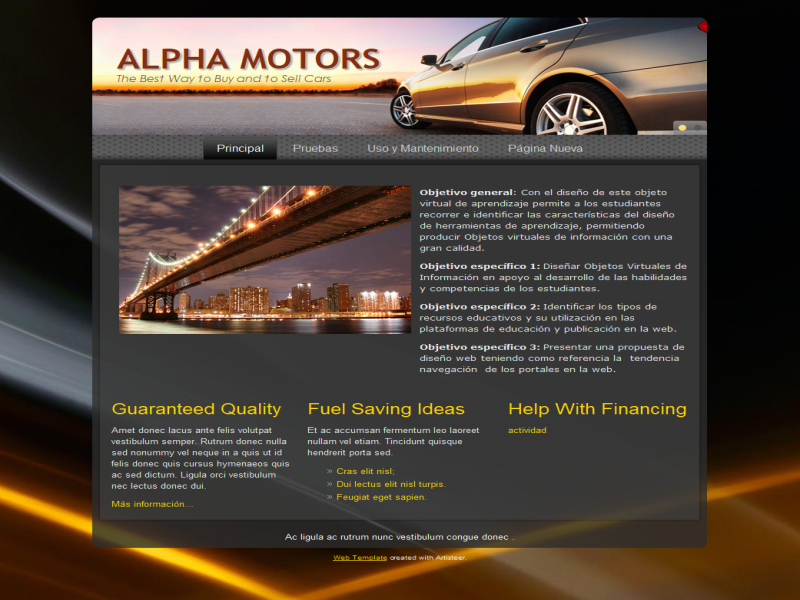
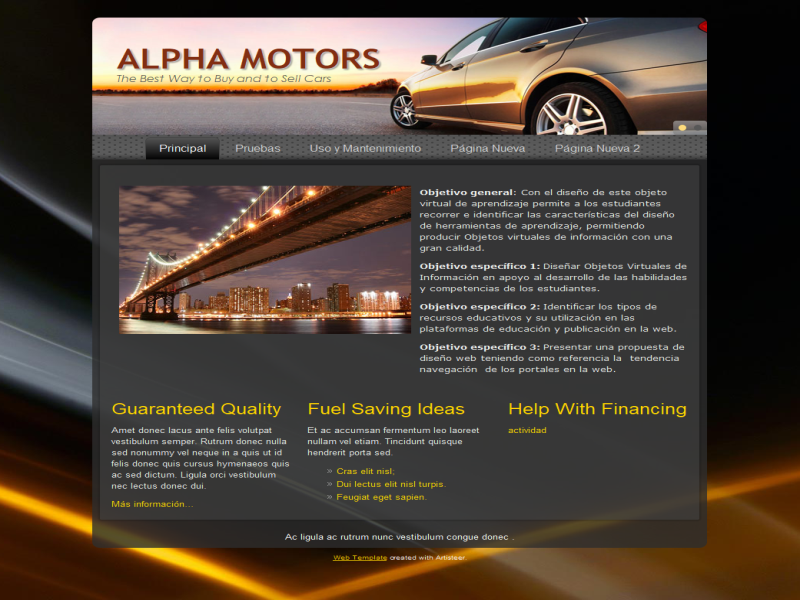
pagina nueva

Changed region(s): [[0.1562, 0.24, 0.8125, 0.27]]

diff --git a/pagina-nueva-2.html b/pagina-nueva-2.html
@@ -1,7 +1,7 @@
 <!DOCTYPE html>
 <html dir="ltr" lang="en-US"><head><!-- Created by Artisteer v4.0.0.58475 -->
     <meta charset="utf-8">
-    <title>Uso y Mantenimeinto</title>
+    <title>Página Nueva 2</title>
     <meta name="viewport" content="initial-scale = 1.0, maximum-scale = 1.0, user-scalable = no, width = device-width">
 
     <!--[if lt IE 9]><script src="http://html5shiv.googlecode.com/svn/trunk/html5.js"></script><![endif]-->
@@ -50,20 +50,17 @@
                     
 </header>
 <nav class="art-nav clearfix">
-    <ul class="art-hmenu"><li><a href="principal.html">Principal</a><ul><li><a href="principal/analisis.html">Análisis</a></li><li><a href="principal/planificacion.html">Planificación</a></li><li><a href="principal/car-reviews.html">Diseño</a></li><li><a href="principal/implementacion.html">Implementación</a></li><li><a href="principal/instalacion.html">Instalación</a></li></ul></li><li><a href="locations.html">Pruebas</a></li><li><a href="uso-y-mantenimiento.html" class="active">Uso y Mantenimiento</a></li><li><a href="pagina-nueva.html">Página Nueva</a></li><li><a href="pagina-nueva-2.html">Página Nueva 2</a></li></ul> 
+    <ul class="art-hmenu"><li><a href="principal.html">Principal</a><ul><li><a href="principal/analisis.html">Análisis</a></li><li><a href="principal/planificacion.html">Planificación</a></li><li><a href="principal/car-reviews.html">Diseño</a></li><li><a href="principal/implementacion.html">Implementación</a></li><li><a href="principal/instalacion.html">Instalación</a></li></ul></li><li><a href="locations.html">Pruebas</a></li><li><a href="uso-y-mantenimiento.html">Uso y Mantenimiento</a></li><li><a href="pagina-nueva.html">Página Nueva</a></li><li><a href="pagina-nueva-2.html" class="active">Página Nueva 2</a></li></ul> 
     </nav>
 <div class="art-layout-wrapper clearfix">
                 <div class="art-content-layout">
                     <div class="art-content-layout-row">
                         <div class="art-layout-cell art-content clearfix"><article class="art-post art-article">
                                 <div class="art-postmetadataheader">
-                                        <h2 class="art-postheader">Uso y Mantenimeinto</h2>
+                                        <h2 class="art-postheader">Página Nueva 2</h2>
                                     </div>
                                                 
-                <div class="art-postcontent art-postcontent-0 clearfix"><p class="MsoListParagraphCxSpFirst" style="margin-left: 54pt; text-align: justify;"><span style="font-family: Verdana, sans-serif; color: #FFFFFF;">Mantenimiento correctivo: Eliminar errores o defectos dentro de la vida útil del sistema.</span></p>
-<p class="MsoListParagraphCxSpMiddle" style="margin-left: 54pt; text-align: justify;"><span style="font-family: Verdana, sans-serif; color: #FFFFFF;">Mantenimiento adaptativo: adaptarlo nuevas funciones por nuevas versiones de sistemas operativos o aplicaciones.</span></p>
-<p class="MsoListParagraphCxSpMiddle" style="margin-left: 54pt; text-align: justify;"><span style="font-family: Verdana, sans-serif; color: #FFFFFF;">Mantenimiento perfectivo: implementarle nuevas funcionalidades las cuales generaran una nueva mejora del sistema.</span></p>
-<p class="MsoListParagraphCxSpMiddle" style="margin-left: 54pt; text-align: justify;"><span style="font-family: Verdana, sans-serif; color: #FFFFFF;">En esta etapa encontramos que se repiten todas las etapas anteriores.</span></p></div>
+                <div class="art-postcontent art-postcontent-0 clearfix"><p><br/></p></div>
 </article></div>
                     </div>
                 </div>

diff --git a/principal/analisis.html b/principal/analisis.html
@@ -54,7 +54,7 @@
                     
 </header>
 <nav class="art-nav clearfix">
-    <ul class="art-hmenu"><li><a href="../principal.html" class="active">Principal</a><ul class="active"><li><a href="../principal/analisis.html" class="active">Análisis</a></li><li><a href="../principal/planificacion.html">Planificación</a></li><li><a href="../principal/car-reviews.html">Diseño</a></li><li><a href="../principal/implementacion.html">Implementación</a></li><li><a href="../principal/instalacion.html">Instalación</a></li></ul></li><li><a href="../locations.html">Pruebas</a></li><li><a href="../uso-y-mantenimiento.html">Uso y Mantenimiento</a></li><li><a href="../pagina-nueva.html">Página Nueva</a></li></ul> 
+    <ul class="art-hmenu"><li><a href="../principal.html" class="active">Principal</a><ul class="active"><li><a href="../principal/analisis.html" class="active">Análisis</a></li><li><a href="../principal/planificacion.html">Planificación</a></li><li><a href="../principal/car-reviews.html">Diseño</a></li><li><a href="../principal/implementacion.html">Implementación</a></li><li><a href="../principal/instalacion.html">Instalación</a></li></ul></li><li><a href="../locations.html">Pruebas</a></li><li><a href="../uso-y-mantenimiento.html">Uso y Mantenimiento</a></li><li><a href="../pagina-nueva.html">Página Nueva</a></li><li><a href="../pagina-nueva-2.html">Página Nueva 2</a></li></ul> 
     </nav>
 <div class="art-layout-wrapper clearfix">
                 <div class="art-content-layout">

diff --git a/principal/car-reviews.html b/principal/car-reviews.html
@@ -50,7 +50,7 @@
                     
 </header>
 <nav class="art-nav clearfix">
-    <ul class="art-hmenu"><li><a href="../principal.html" class="active">Principal</a><ul class="active"><li><a href="../principal/analisis.html">Análisis</a></li><li><a href="../principal/planificacion.html">Planificación</a></li><li><a href="../principal/car-reviews.html" class="active">Diseño</a></li><li><a href="../principal/implementacion.html">Implementación</a></li><li><a href="../principal/instalacion.html">Instalación</a></li></ul></li><li><a href="../locations.html">Pruebas</a></li><li><a href="../uso-y-mantenimiento.html">Uso y Mantenimiento</a></li><li><a href="../pagina-nueva.html">Página Nueva</a></li></ul> 
+    <ul class="art-hmenu"><li><a href="../principal.html" class="active">Principal</a><ul class="active"><li><a href="../principal/analisis.html">Análisis</a></li><li><a href="../principal/planificacion.html">Planificación</a></li><li><a href="../principal/car-reviews.html" class="active">Diseño</a></li><li><a href="../principal/implementacion.html">Implementación</a></li><li><a href="../principal/instalacion.html">Instalación</a></li></ul></li><li><a href="../locations.html">Pruebas</a></li><li><a href="../uso-y-mantenimiento.html">Uso y Mantenimiento</a></li><li><a href="../pagina-nueva.html">Página Nueva</a></li><li><a href="../pagina-nueva-2.html">Página Nueva 2</a></li></ul> 
     </nav>
 <div class="art-layout-wrapper clearfix">
                 <div class="art-content-layout">

diff --git a/principal/implementacion.html b/principal/implementacion.html
@@ -54,7 +54,7 @@
                     
 </header>
 <nav class="art-nav clearfix">
-    <ul class="art-hmenu"><li><a href="../principal.html" class="active">Principal</a><ul class="active"><li><a href="../principal/analisis.html">Análisis</a></li><li><a href="../principal/planificacion.html">Planificación</a></li><li><a href="../principal/car-reviews.html">Diseño</a></li><li><a href="../principal/implementacion.html" class="active">Implementación</a></li><li><a href="../principal/instalacion.html">Instalación</a></li></ul></li><li><a href="../locations.html">Pruebas</a></li><li><a href="../uso-y-mantenimiento.html">Uso y Mantenimiento</a></li><li><a href="../pagina-nueva.html">Página Nueva</a></li></ul> 
+    <ul class="art-hmenu"><li><a href="../principal.html" class="active">Principal</a><ul class="active"><li><a href="../principal/analisis.html">Análisis</a></li><li><a href="../principal/planificacion.html">Planificación</a></li><li><a href="../principal/car-reviews.html">Diseño</a></li><li><a href="../principal/implementacion.html" class="active">Implementación</a></li><li><a href="../principal/instalacion.html">Instalación</a></li></ul></li><li><a href="../locations.html">Pruebas</a></li><li><a href="../uso-y-mantenimiento.html">Uso y Mantenimiento</a></li><li><a href="../pagina-nueva.html">Página Nueva</a></li><li><a href="../pagina-nueva-2.html">Página Nueva 2</a></li></ul> 
     </nav>
 <div class="art-layout-wrapper clearfix">
                 <div class="art-content-layout">

diff --git a/principal/instalacion.html b/principal/instalacion.html
@@ -54,7 +54,7 @@
                     
 </header>
 <nav class="art-nav clearfix">
-    <ul class="art-hmenu"><li><a href="../principal.html" class="active">Principal</a><ul class="active"><li><a href="../principal/analisis.html">Análisis</a></li><li><a href="../principal/planificacion.html">Planificación</a></li><li><a href="../principal/car-reviews.html">Diseño</a></li><li><a href="../principal/implementacion.html">Implementación</a></li><li><a href="../principal/instalacion.html" class="active">Instalación</a></li></ul></li><li><a href="../locations.html">Pruebas</a></li><li><a href="../uso-y-mantenimiento.html">Uso y Mantenimiento</a></li><li><a href="../pagina-nueva.html">Página Nueva</a></li></ul> 
+    <ul class="art-hmenu"><li><a href="../principal.html" class="active">Principal</a><ul class="active"><li><a href="../principal/analisis.html">Análisis</a></li><li><a href="../principal/planificacion.html">Planificación</a></li><li><a href="../principal/car-reviews.html">Diseño</a></li><li><a href="../principal/implementacion.html">Implementación</a></li><li><a href="../principal/instalacion.html" class="active">Instalación</a></li></ul></li><li><a href="../locations.html">Pruebas</a></li><li><a href="../uso-y-mantenimiento.html">Uso y Mantenimiento</a></li><li><a href="../pagina-nueva.html">Página Nueva</a></li><li><a href="../pagina-nueva-2.html">Página Nueva 2</a></li></ul> 
     </nav>
 <div class="art-layout-wrapper clearfix">
                 <div class="art-content-layout">

diff --git a/principal/planificacion.html b/principal/planificacion.html
@@ -55,7 +55,7 @@
                     
 </header>
 <nav class="art-nav clearfix">
-    <ul class="art-hmenu"><li><a href="../principal.html" class="active">Principal</a><ul class="active"><li><a href="../principal/analisis.html">Análisis</a></li><li><a href="../principal/planificacion.html" class="active">Planificación</a></li><li><a href="../principal/car-reviews.html">Diseño</a></li><li><a href="../principal/implementacion.html">Implementación</a></li><li><a href="../principal/instalacion.html">Instalación</a></li></ul></li><li><a href="../locations.html">Pruebas</a></li><li><a href="../uso-y-mantenimiento.html">Uso y Mantenimiento</a></li><li><a href="../pagina-nueva.html">Página Nueva</a></li></ul> 
+    <ul class="art-hmenu"><li><a href="../principal.html" class="active">Principal</a><ul class="active"><li><a href="../principal/analisis.html">Análisis</a></li><li><a href="../principal/planificacion.html" class="active">Planificación</a></li><li><a href="../principal/car-reviews.html">Diseño</a></li><li><a href="../principal/implementacion.html">Implementación</a></li><li><a href="../principal/instalacion.html">Instalación</a></li></ul></li><li><a href="../locations.html">Pruebas</a></li><li><a href="../uso-y-mantenimiento.html">Uso y Mantenimiento</a></li><li><a href="../pagina-nueva.html">Página Nueva</a></li><li><a href="../pagina-nueva-2.html">Página Nueva 2</a></li></ul> 
     </nav>
 <div class="art-layout-wrapper clearfix">
                 <div class="art-content-layout">

diff --git a/index.html b/index.html
@@ -55,7 +55,7 @@
                     
 </header>
 <nav class="art-nav clearfix">
-    <ul class="art-hmenu"><li><a href="principal.html" class="active">Principal</a><ul class="active"><li><a href="principal/analisis.html">Análisis</a></li><li><a href="principal/planificacion.html">Planificación</a></li><li><a href="principal/car-reviews.html">Diseño</a></li><li><a href="principal/implementacion.html">Implementación</a></li><li><a href="principal/instalacion.html">Instalación</a></li></ul></li><li><a href="locations.html">Pruebas</a></li><li><a href="uso-y-mantenimiento.html">Uso y Mantenimiento</a></li><li><a href="pagina-nueva.html">Página Nueva</a></li></ul> 
+    <ul class="art-hmenu"><li><a href="principal.html" class="active">Principal</a><ul class="active"><li><a href="principal/analisis.html">Análisis</a></li><li><a href="principal/planificacion.html">Planificación</a></li><li><a href="principal/car-reviews.html">Diseño</a></li><li><a href="principal/implementacion.html">Implementación</a></li><li><a href="principal/instalacion.html">Instalación</a></li></ul></li><li><a href="locations.html">Pruebas</a></li><li><a href="uso-y-mantenimiento.html">Uso y Mantenimiento</a></li><li><a href="pagina-nueva.html">Página Nueva</a></li><li><a href="pagina-nueva-2.html">Página Nueva 2</a></li></ul> 
     </nav>
 <div class="art-layout-wrapper clearfix">
                 <div class="art-content-layout">

diff --git a/principal.html b/principal.html
@@ -55,7 +55,7 @@
                     
 </header>
 <nav class="art-nav clearfix">
-    <ul class="art-hmenu"><li><a href="principal.html" class="active">Principal</a><ul class="active"><li><a href="principal/analisis.html">Análisis</a></li><li><a href="principal/planificacion.html">Planificación</a></li><li><a href="principal/car-reviews.html">Diseño</a></li><li><a href="principal/implementacion.html">Implementación</a></li><li><a href="principal/instalacion.html">Instalación</a></li></ul></li><li><a href="locations.html">Pruebas</a></li><li><a href="uso-y-mantenimiento.html">Uso y Mantenimiento</a></li><li><a href="pagina-nueva.html">Página Nueva</a></li></ul> 
+    <ul class="art-hmenu"><li><a href="principal.html" class="active">Principal</a><ul class="active"><li><a href="principal/analisis.html">Análisis</a></li><li><a href="principal/planificacion.html">Planificación</a></li><li><a href="principal/car-reviews.html">Diseño</a></li><li><a href="principal/implementacion.html">Implementación</a></li><li><a href="principal/instalacion.html">Instalación</a></li></ul></li><li><a href="locations.html">Pruebas</a></li><li><a href="uso-y-mantenimiento.html">Uso y Mantenimiento</a></li><li><a href="pagina-nueva.html">Página Nueva</a></li><li><a href="pagina-nueva-2.html">Página Nueva 2</a></li></ul> 
     </nav>
 <div class="art-layout-wrapper clearfix">
                 <div class="art-content-layout">

diff --git a/Blog Posts/new-post-2.html b/Blog Posts/new-post-2.html
@@ -54,7 +54,7 @@
                     
 </header>
 <nav class="art-nav clearfix">
-    <ul class="art-hmenu"><li><a href="../principal.html">Principal</a><ul><li><a href="../principal/analisis.html">Análisis</a></li><li><a href="../principal/planificacion.html">Planificación</a></li><li><a href="../principal/car-reviews.html">Diseño</a></li><li><a href="../principal/implementacion.html">Implementación</a></li><li><a href="../principal/instalacion.html">Instalación</a></li></ul></li><li><a href="../locations.html">Pruebas</a></li><li><a href="../uso-y-mantenimiento.html">Uso y Mantenimiento</a></li><li><a href="../pagina-nueva.html">Página Nueva</a></li></ul> 
+    <ul class="art-hmenu"><li><a href="../principal.html">Principal</a><ul><li><a href="../principal/analisis.html">Análisis</a></li><li><a href="../principal/planificacion.html">Planificación</a></li><li><a href="../principal/car-reviews.html">Diseño</a></li><li><a href="../principal/implementacion.html">Implementación</a></li><li><a href="../principal/instalacion.html">Instalación</a></li></ul></li><li><a href="../locations.html">Pruebas</a></li><li><a href="../uso-y-mantenimiento.html">Uso y Mantenimiento</a></li><li><a href="../pagina-nueva.html">Página Nueva</a></li><li><a href="../pagina-nueva-2.html">Página Nueva 2</a></li></ul> 
     </nav>
 <div class="art-layout-wrapper clearfix">
                 <div class="art-content-layout">

diff --git a/Blog Posts/new-post-3.html b/Blog Posts/new-post-3.html
@@ -54,7 +54,7 @@
                     
 </header>
 <nav class="art-nav clearfix">
-    <ul class="art-hmenu"><li><a href="../principal.html">Principal</a><ul><li><a href="../principal/analisis.html">Análisis</a></li><li><a href="../principal/planificacion.html">Planificación</a></li><li><a href="../principal/car-reviews.html">Diseño</a></li><li><a href="../principal/implementacion.html">Implementación</a></li><li><a href="../principal/instalacion.html">Instalación</a></li></ul></li><li><a href="../locations.html">Pruebas</a></li><li><a href="../uso-y-mantenimiento.html">Uso y Mantenimiento</a></li><li><a href="../pagina-nueva.html">Página Nueva</a></li></ul> 
+    <ul class="art-hmenu"><li><a href="../principal.html">Principal</a><ul><li><a href="../principal/analisis.html">Análisis</a></li><li><a href="../principal/planificacion.html">Planificación</a></li><li><a href="../principal/car-reviews.html">Diseño</a></li><li><a href="../principal/implementacion.html">Implementación</a></li><li><a href="../principal/instalacion.html">Instalación</a></li></ul></li><li><a href="../locations.html">Pruebas</a></li><li><a href="../uso-y-mantenimiento.html">Uso y Mantenimiento</a></li><li><a href="../pagina-nueva.html">Página Nueva</a></li><li><a href="../pagina-nueva-2.html">Página Nueva 2</a></li></ul> 
     </nav>
 <div class="art-layout-wrapper clearfix">
                 <div class="art-content-layout">

diff --git a/Blog Posts/new-post.html b/Blog Posts/new-post.html
@@ -54,7 +54,7 @@
                     
 </header>
 <nav class="art-nav clearfix">
-    <ul class="art-hmenu"><li><a href="../principal.html">Principal</a><ul><li><a href="../principal/analisis.html">Análisis</a></li><li><a href="../principal/planificacion.html">Planificación</a></li><li><a href="../principal/car-reviews.html">Diseño</a></li><li><a href="../principal/implementacion.html">Implementación</a></li><li><a href="../principal/instalacion.html">Instalación</a></li></ul></li><li><a href="../locations.html">Pruebas</a></li><li><a href="../uso-y-mantenimiento.html">Uso y Mantenimiento</a></li><li><a href="../pagina-nueva.html">Página Nueva</a></li></ul> 
+    <ul class="art-hmenu"><li><a href="../principal.html">Principal</a><ul><li><a href="../principal/analisis.html">Análisis</a></li><li><a href="../principal/planificacion.html">Planificación</a></li><li><a href="../principal/car-reviews.html">Diseño</a></li><li><a href="../principal/implementacion.html">Implementación</a></li><li><a href="../principal/instalacion.html">Instalación</a></li></ul></li><li><a href="../locations.html">Pruebas</a></li><li><a href="../uso-y-mantenimiento.html">Uso y Mantenimiento</a></li><li><a href="../pagina-nueva.html">Página Nueva</a></li><li><a href="../pagina-nueva-2.html">Página Nueva 2</a></li></ul> 
     </nav>
 <div class="art-layout-wrapper clearfix">
                 <div class="art-content-layout">

diff --git a/Blog Posts/xxxxx.html b/Blog Posts/xxxxx.html
@@ -50,7 +50,7 @@
                     
 </header>
 <nav class="art-nav clearfix">
-    <ul class="art-hmenu"><li><a href="../principal.html">Principal</a><ul><li><a href="../principal/analisis.html">Análisis</a></li><li><a href="../principal/planificacion.html">Planificación</a></li><li><a href="../principal/car-reviews.html">Diseño</a></li><li><a href="../principal/implementacion.html">Implementación</a></li><li><a href="../principal/instalacion.html">Instalación</a></li></ul></li><li><a href="../locations.html">Pruebas</a></li><li><a href="../uso-y-mantenimiento.html">Uso y Mantenimiento</a></li><li><a href="../pagina-nueva.html">Página Nueva</a></li></ul> 
+    <ul class="art-hmenu"><li><a href="../principal.html">Principal</a><ul><li><a href="../principal/analisis.html">Análisis</a></li><li><a href="../principal/planificacion.html">Planificación</a></li><li><a href="../principal/car-reviews.html">Diseño</a></li><li><a href="../principal/implementacion.html">Implementación</a></li><li><a href="../principal/instalacion.html">Instalación</a></li></ul></li><li><a href="../locations.html">Pruebas</a></li><li><a href="../uso-y-mantenimiento.html">Uso y Mantenimiento</a></li><li><a href="../pagina-nueva.html">Página Nueva</a></li><li><a href="../pagina-nueva-2.html">Página Nueva 2</a></li></ul> 
     </nav>
 <div class="art-layout-wrapper clearfix">
                 <div class="art-content-layout">
